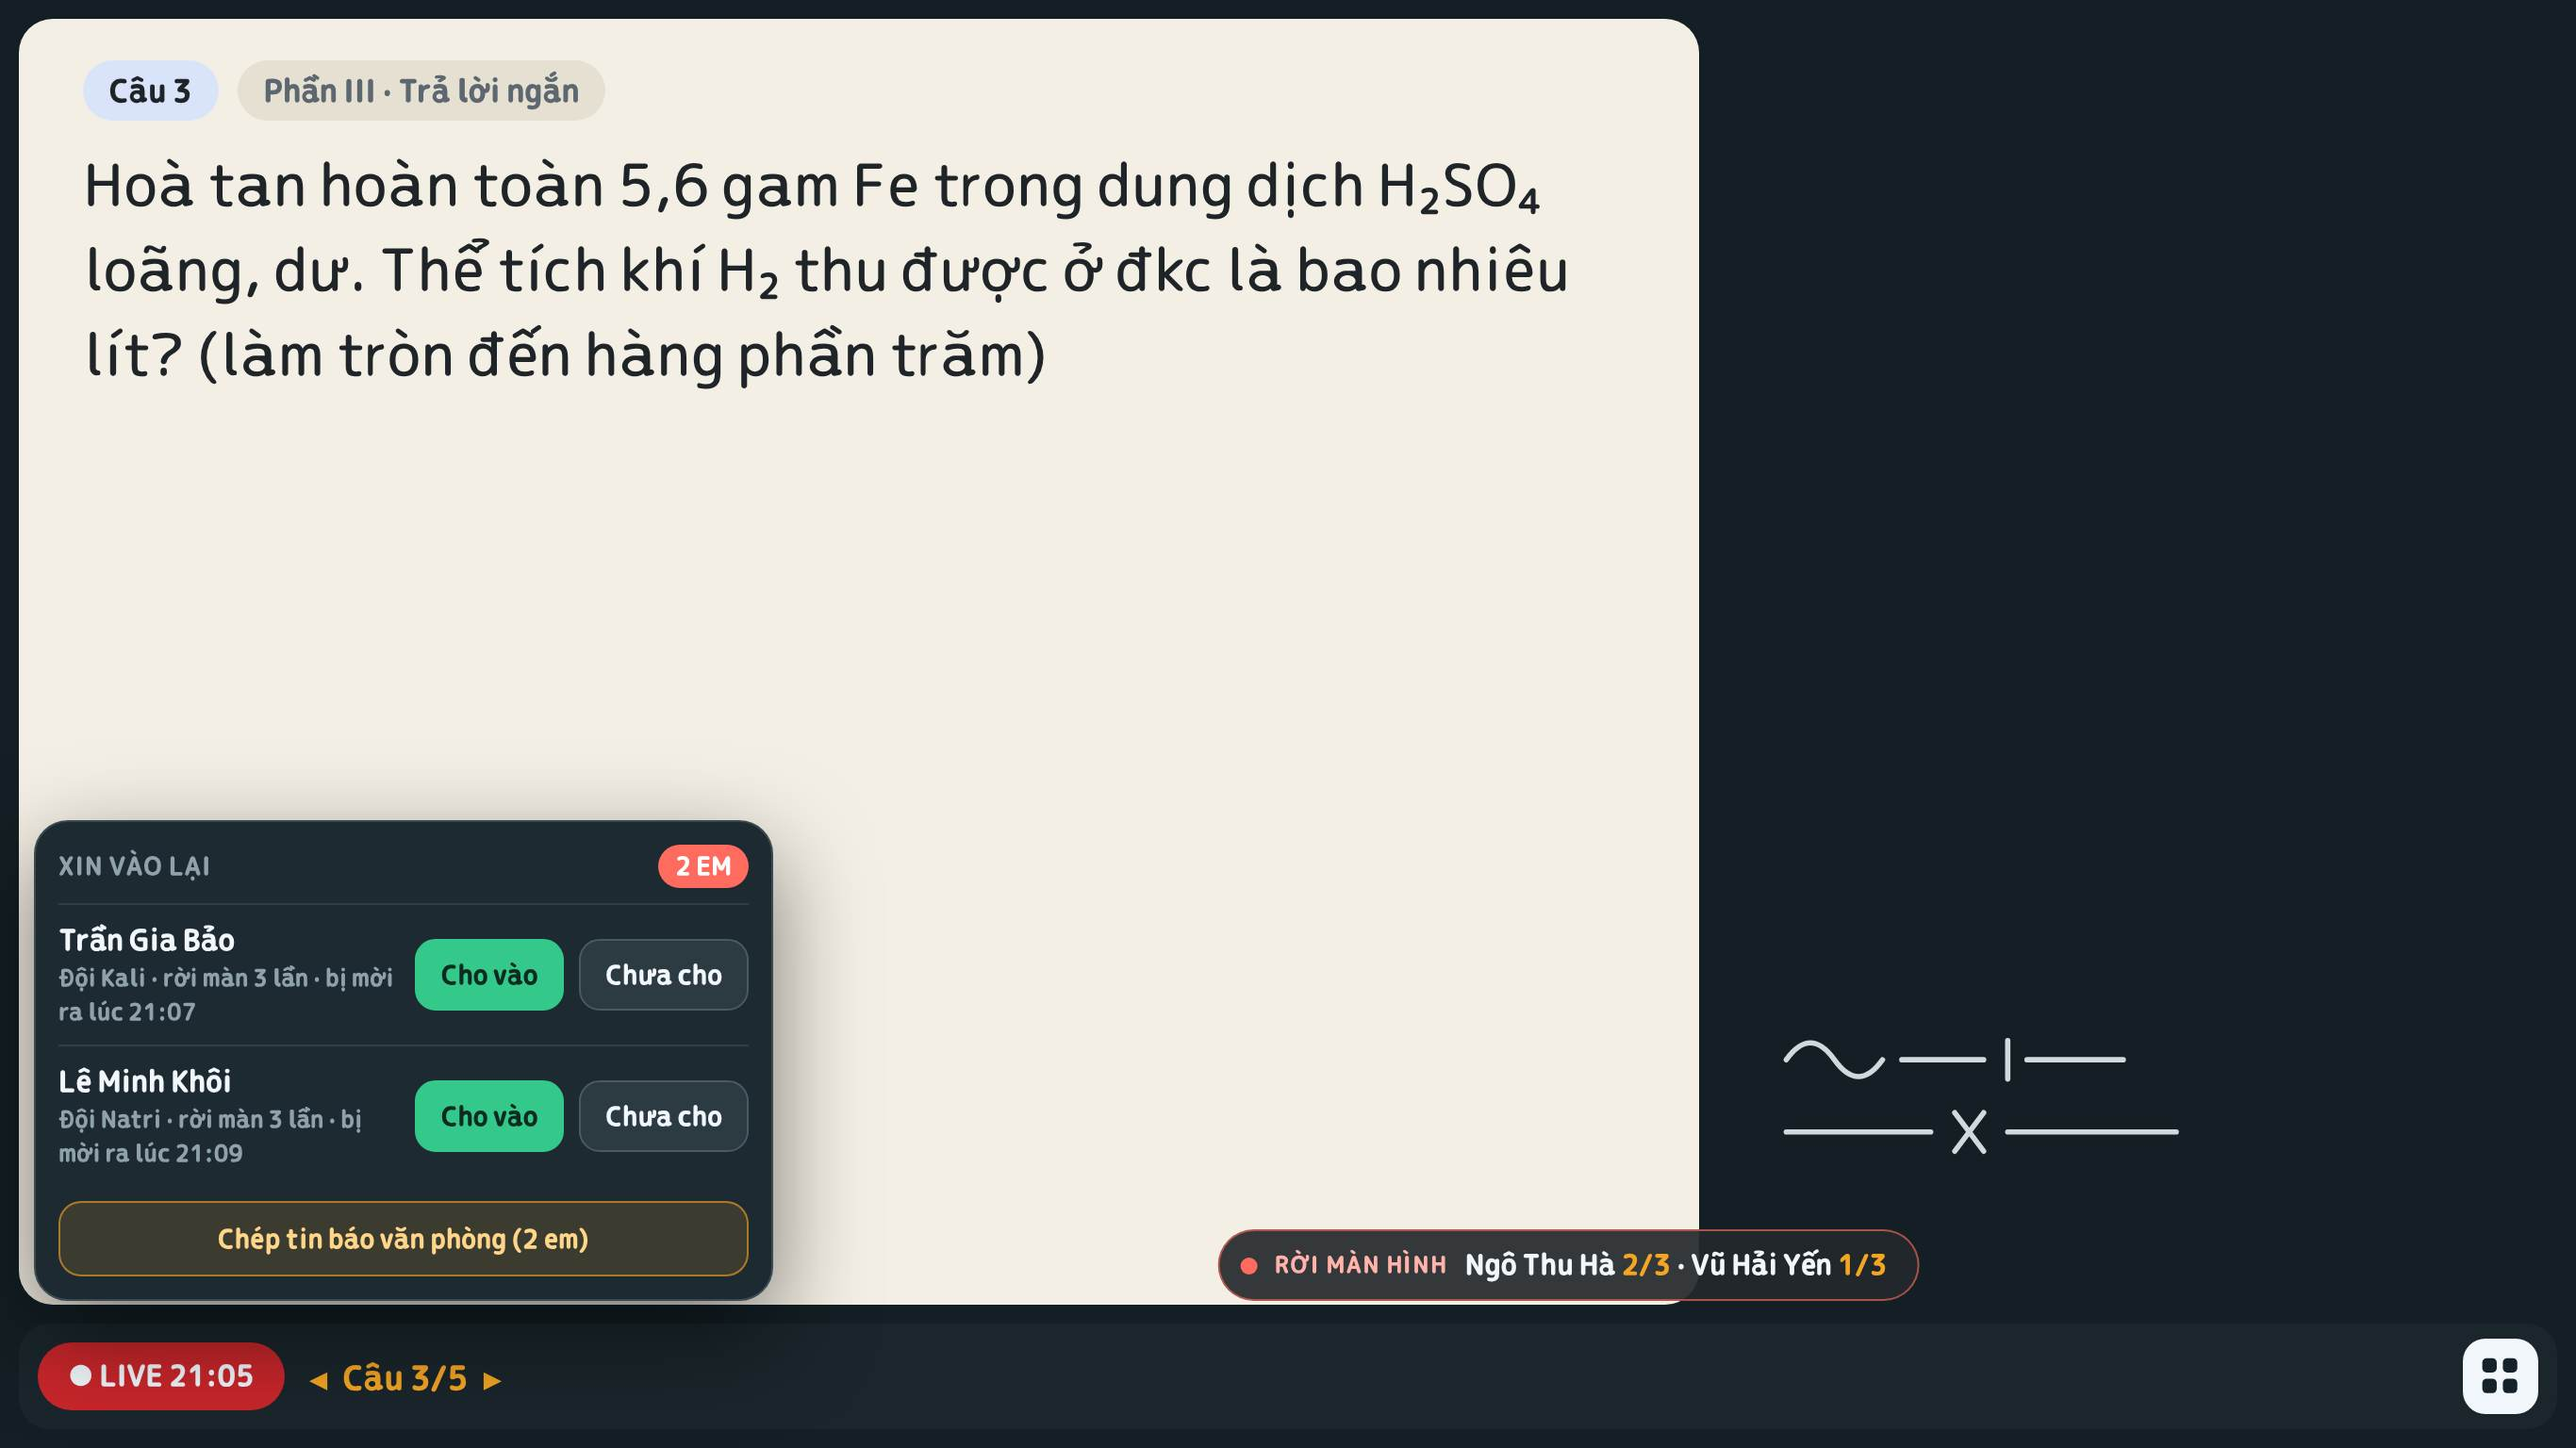
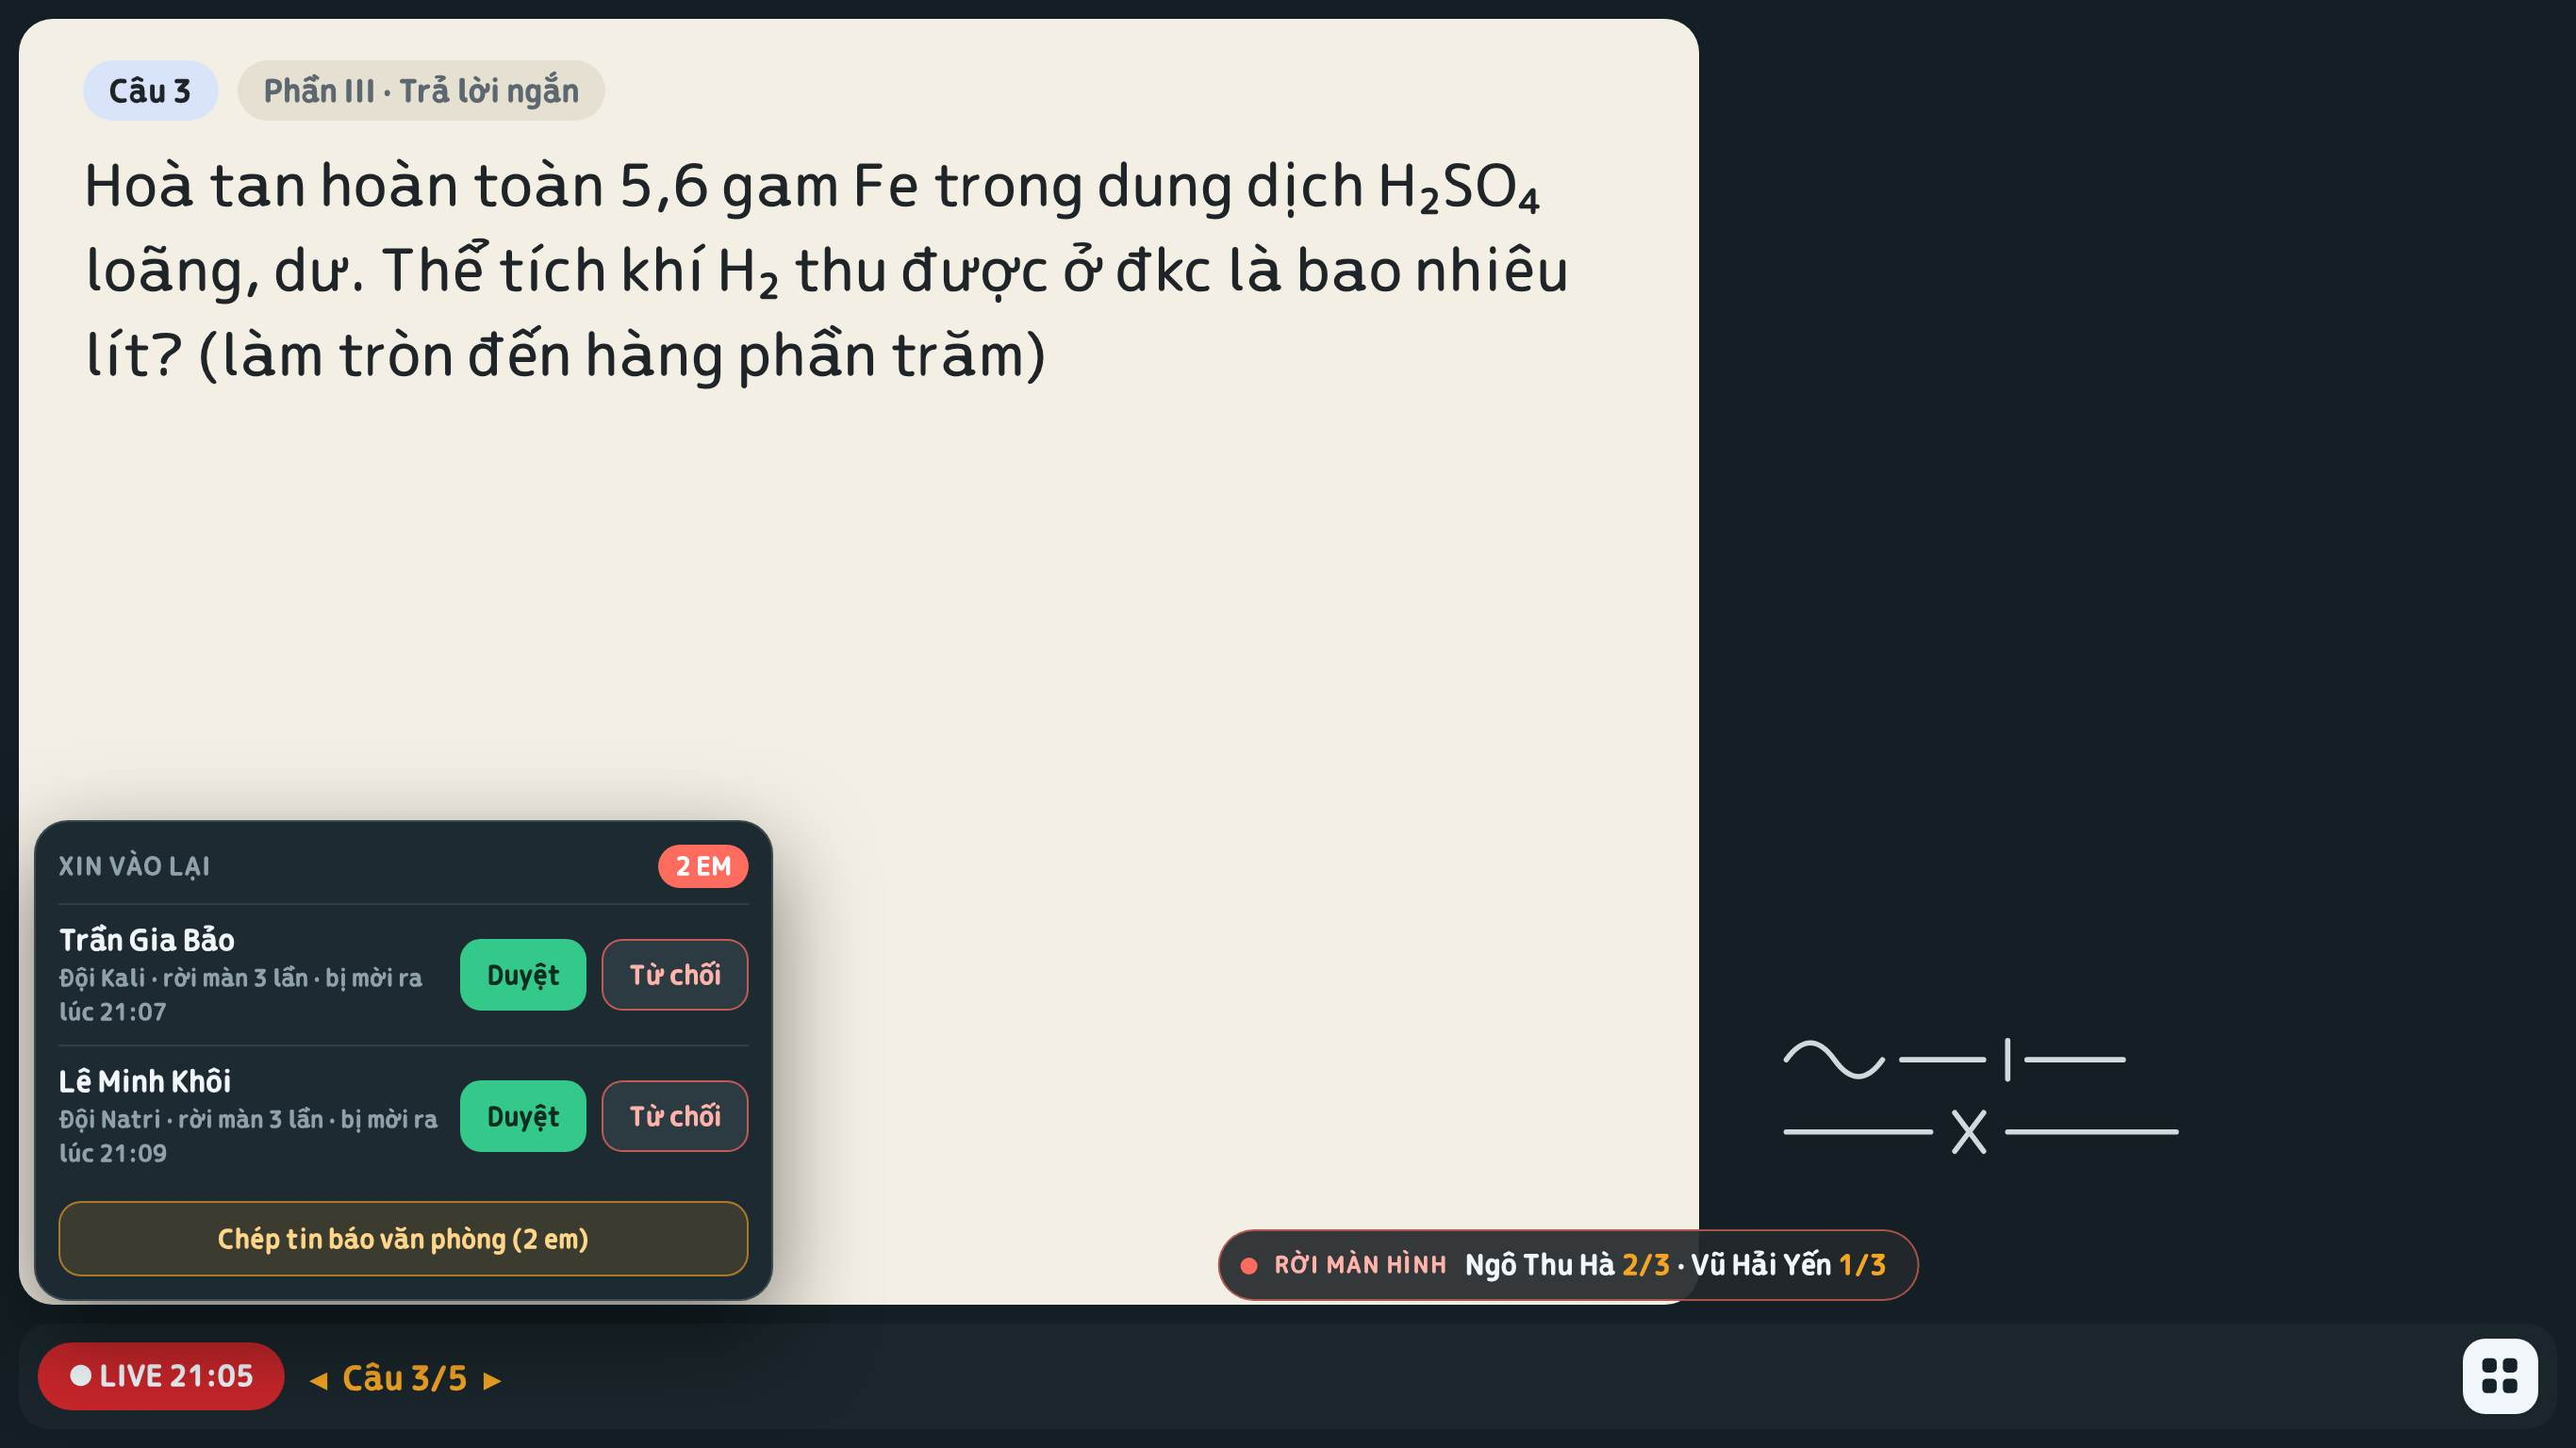
Bản vẽ luật rời màn: nút của thầy là «Duyệt» / «Từ chối» (thầy góp ý), thêm cảnh em bị từ chối
Claude-Session: https://claude.ai/code/session_01Ghxeuvnx4C3QF1jc4p46Ce

diff --git a/docs/ban-ve-live-moi-1211/luat-roi-man.html b/docs/ban-ve-live-moi-1211/luat-roi-man.html
@@ -66,6 +66,7 @@ html, body { margin: 0; height: 100%; background: var(--nen); font-family: 'DDH'
 .dong .ai { flex: 1; min-width: 0; } .dong .ai b { display: block; font-size: calc(15 * var(--k)); font-weight: 800; } .dong .ai small { display: block; font-size: calc(12 * var(--k)); font-weight: 600; color: var(--chu3); }
 .dong .n { padding: calc(8 * var(--k)) calc(13 * var(--k)); border-radius: calc(11 * var(--k)); font-size: calc(13.5 * var(--k)); font-weight: 800; background: #2c3a42; border: 1.5px solid #4a5a63; white-space: nowrap; }
 .dong .n.ok { background: #34c98a; border-color: #34c98a; color: #0d2b20; }
+.dong .n.tu { border-color: rgba(255,107,94,.7); color: #ffb3ab; }
 .chep { margin-top: calc(8 * var(--k)); display: flex; align-items: center; justify-content: center; gap: calc(8 * var(--k)); padding: calc(9 * var(--k)); border-radius: calc(12 * var(--k)); font-size: calc(13.5 * var(--k)); font-weight: 800; background: rgba(245,165,36,.14); border: 1.5px solid rgba(245,165,36,.6); color: #ffd58a; }
 .vien { position: fixed; left: 50%; bottom: calc(78 * var(--k)); transform: translateX(-10%); display: flex; align-items: center; gap: calc(9 * var(--k)); padding: calc(7 * var(--k)) calc(16 * var(--k)) calc(7 * var(--k)) calc(11 * var(--k)); border-radius: 99px; background: rgba(35,40,45,.92); border: 1.5px solid rgba(255,107,94,.62); font-size: calc(14.5 * var(--k)); font-weight: 700; }
 .vien i { width: calc(9 * var(--k)); height: calc(9 * var(--k)); border-radius: 50%; background: var(--do); } .vien b { font-size: .82em; letter-spacing: .07em; text-transform: uppercase; color: #ffb3ab; } .vien u { text-decoration: none; color: var(--cam); font-weight: 800; }
@@ -86,6 +87,7 @@ if (k === 'em-bat-luat') h = manEm('<div class="bao" style="--z:' + z + '"><span
 if (k === 'em-lan-1') h = manEm('<div class="bao vang" style="--z:' + z + '"><span class="bt">1</span><span><b>Em vừa rời màn hình lần 1</b><p>Rời thêm 2 lần nữa, em sẽ bị mời ra khỏi lớp và Thầy báo phụ huynh.</p>' + cham(1, 3) + '</span></div>')
 if (k === 'em-moi-ra') h = manEm('') + '<div class="phu"><div class="moi-ra" style="--z:' + (nho ? 1.15 : 1) + '"><div class="vong">!</div><h3>Em đã bị mời ra khỏi lớp</h3><p>Em rời màn hình 3 lần trong buổi này. Muốn học tiếp, em bấm Xin vào lại và chờ Thầy duyệt.</p><span class="nut">Xin vào lại</span></div></div>'
 if (k === 'em-cho') h = manEm('') + '<div class="phu"><div class="moi-ra" style="--z:' + (nho ? 1.15 : 1) + '"><div class="vong">!</div><h3>Em đã bị mời ra khỏi lớp</h3><p>Em rời màn hình 3 lần trong buổi này. Đã gửi lời xin vào lại cho Thầy.</p><span class="cho"><i></i>Đang chờ Thầy duyệt</span></div></div>'
-if (k === 'thay-duyet') h = manThay('<div class="duyet"><h4>Xin vào lại<em>2 em</em></h4><div class="dong"><span class="ai"><b>Trần Gia Bảo</b><small>Đội Kali · rời màn 3 lần · bị mời ra lúc 21:07</small></span><span class="n ok">Cho vào</span><span class="n">Chưa cho</span></div><div class="dong"><span class="ai"><b>Lê Minh Khôi</b><small>Đội Natri · rời màn 3 lần · bị mời ra lúc 21:09</small></span><span class="n ok">Cho vào</span><span class="n">Chưa cho</span></div><div class="chep">Chép tin báo văn phòng (2 em)</div></div><div class="vien"><i></i><b>Rời màn hình</b><span>Ngô Thu Hà <u>2/3</u> · Vũ Hải Yến <u>1/3</u></span></div>')
+if (k === 'em-tu-choi') h = manEm('') + '<div class="phu"><div class="moi-ra" style="--z:' + (nho ? 1.15 : 1) + '"><div class="vong">!</div><h3>Thầy chưa duyệt cho em vào lại</h3><p>Em rời màn hình 3 lần trong buổi này. Em chờ 1 phút rồi xin lại.</p><span class="cho" style="opacity:.75">Xin lại sau 0:52</span></div></div>'
+if (k === 'thay-duyet') h = manThay('<div class="duyet"><h4>Xin vào lại<em>2 em</em></h4><div class="dong"><span class="ai"><b>Trần Gia Bảo</b><small>Đội Kali · rời màn 3 lần · bị mời ra lúc 21:07</small></span><span class="n ok">Duyệt</span><span class="n tu">Từ chối</span></div><div class="dong"><span class="ai"><b>Lê Minh Khôi</b><small>Đội Natri · rời màn 3 lần · bị mời ra lúc 21:09</small></span><span class="n ok">Duyệt</span><span class="n tu">Từ chối</span></div><div class="chep">Chép tin báo văn phòng (2 em)</div></div><div class="vien"><i></i><b>Rời màn hình</b><span>Ngô Thu Hà <u>2/3</u> · Vũ Hải Yến <u>1/3</u></span></div>')
 document.getElementById('goc').innerHTML = h
 </script></body></html>
